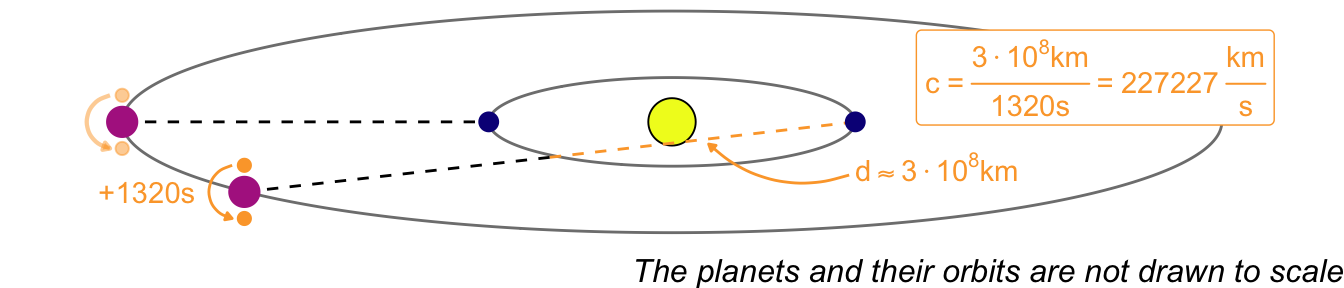
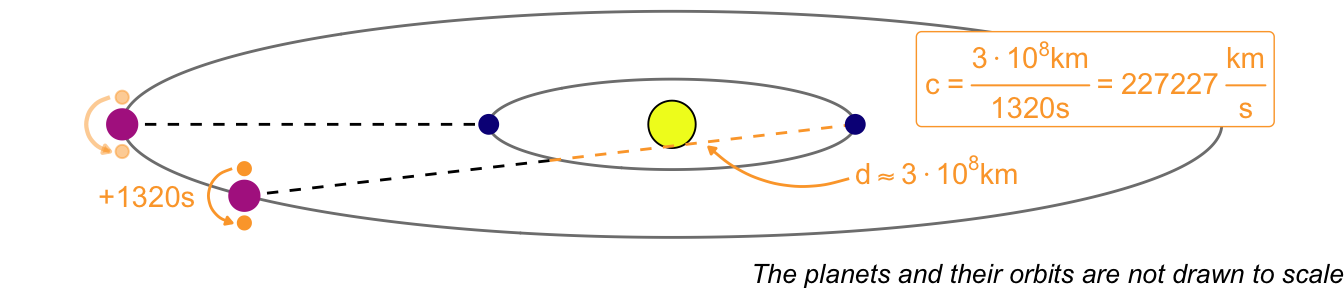
added

diff --git a/docs/chapter-01-what-is-science.html b/docs/chapter-01-what-is-science.html
@@ -450,7 +450,7 @@ window.Quarto = {
 </header>
 
 
-<p><em>Last modified on 28. January 2026 at 14:29:04</em></p>
+<p><em>Last modified on 28. January 2026 at 14:43:17</em></p>
 <blockquote class="blockquote">
 <p><em>“This is your last chance. After this, there is no turning back. You take the blue pill - the story ends, you wake up in your bed and believe whatever you want to believe. You take the red pill - you stay in Wonderland and I show you how deep the rabbit hole goes.” — Morpheus, Matrix</em></p>
 </blockquote>
@@ -1539,7 +1539,7 @@ Figure&nbsp;1.8: Visualization of the relationship between energy and velocity. 
 <span id="cb1-198"><a href="#cb1-198" aria-hidden="true" tabindex="-1"></a>  <span class="fu">labs</span>(<span class="at">caption =</span> <span class="st">"The planets and their orbits are not drawn to scale"</span>) <span class="sc">+</span></span>
 <span id="cb1-199"><a href="#cb1-199" aria-hidden="true" tabindex="-1"></a>  <span class="fu">theme</span>(<span class="at">plot.title =</span> <span class="fu">element_text</span>(<span class="at">size =</span> <span class="dv">16</span>, <span class="at">face =</span> <span class="st">"bold"</span>),</span>
 <span id="cb1-200"><a href="#cb1-200" aria-hidden="true" tabindex="-1"></a>        <span class="at">plot.subtitle =</span> <span class="fu">element_text</span>(<span class="at">size =</span> <span class="dv">12</span>, <span class="at">face =</span> <span class="st">"italic"</span>),</span>
-<span id="cb1-201"><a href="#cb1-201" aria-hidden="true" tabindex="-1"></a>        <span class="at">plot.caption =</span> <span class="fu">element_text</span>(<span class="at">size =</span> <span class="dv">12</span>, <span class="at">face =</span> <span class="st">"italic"</span>))</span>
+<span id="cb1-201"><a href="#cb1-201" aria-hidden="true" tabindex="-1"></a>        <span class="at">plot.caption =</span> <span class="fu">element_text</span>(<span class="at">size =</span> <span class="dv">10</span>, <span class="at">face =</span> <span class="st">"italic"</span>))</span>
 <span id="cb1-202"><a href="#cb1-202" aria-hidden="true" tabindex="-1"></a><span class="in">```</span></span>
 <span id="cb1-203"><a href="#cb1-203" aria-hidden="true" tabindex="-1"></a> </span>
 <span id="cb1-204"><a href="#cb1-204" aria-hidden="true" tabindex="-1"></a> </span>
